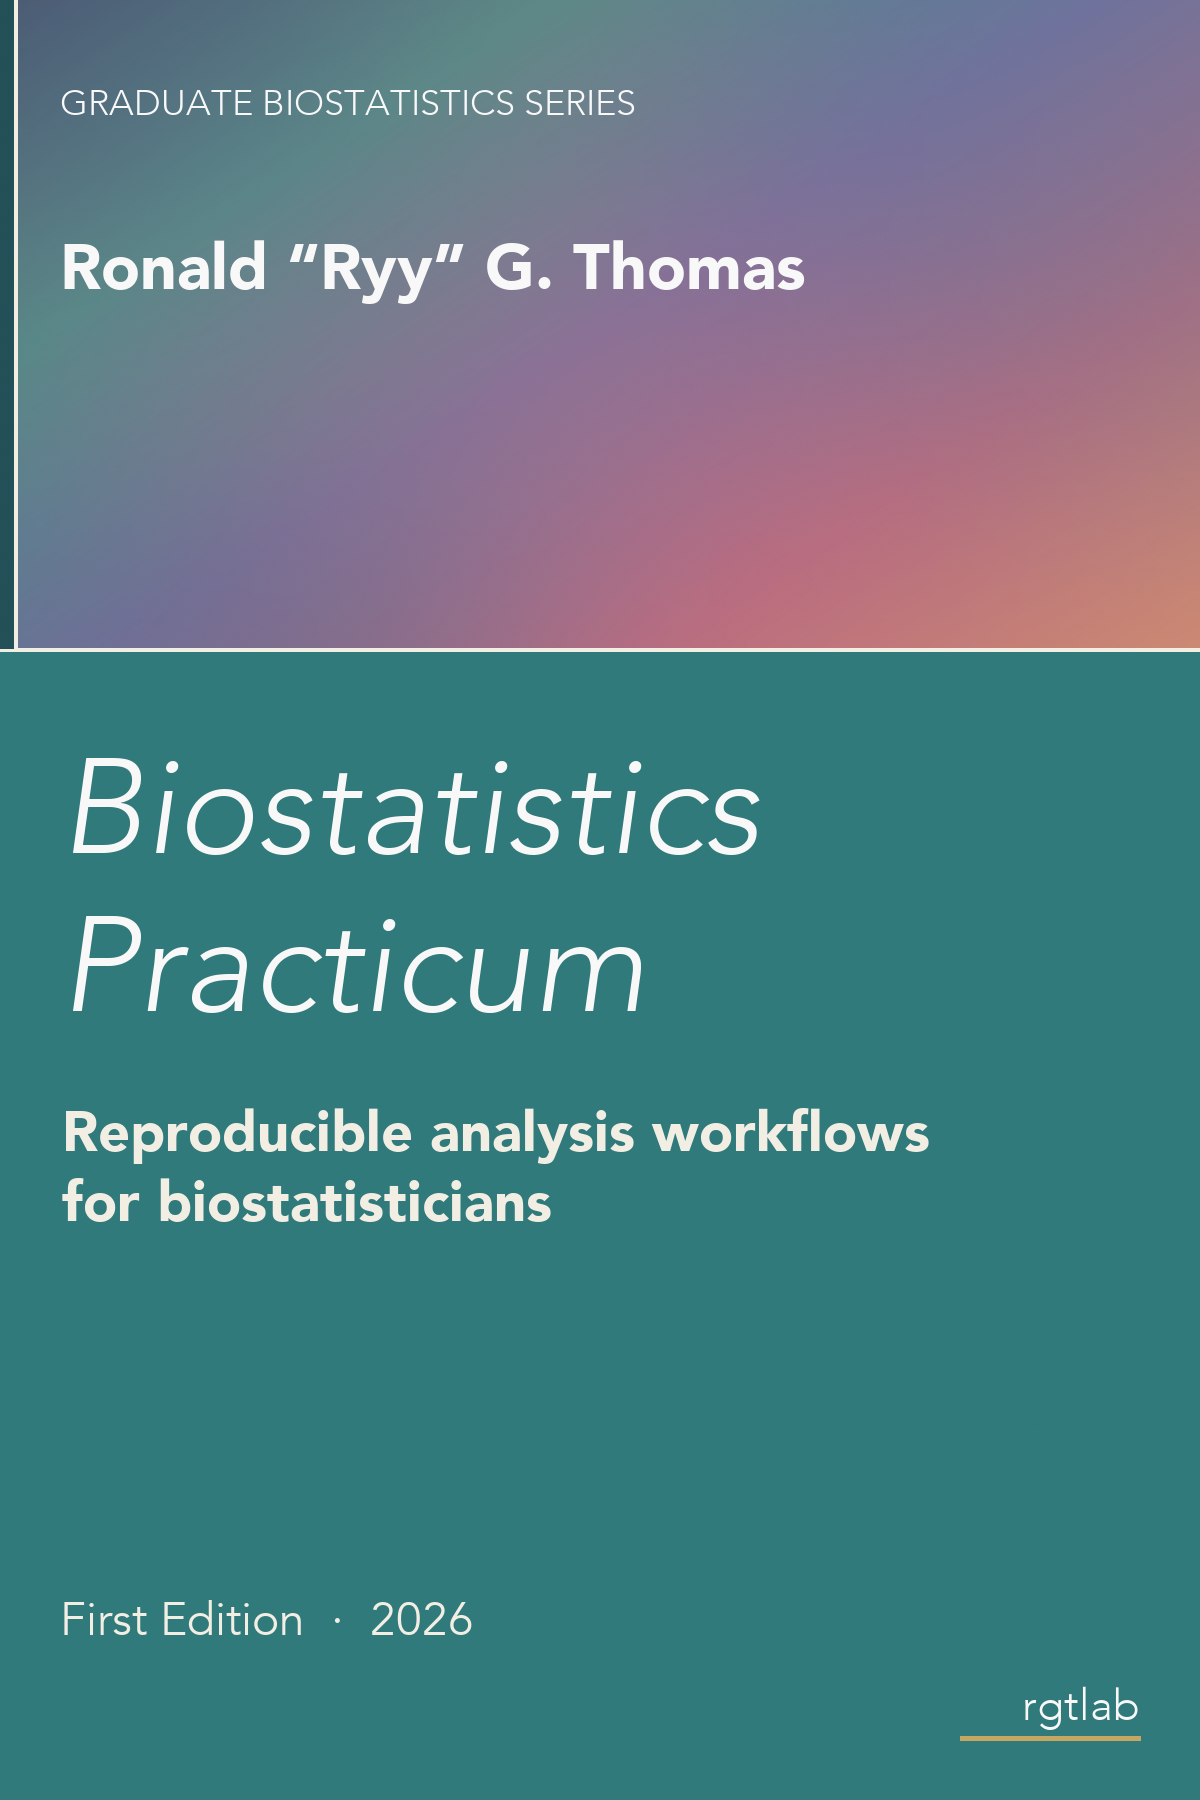
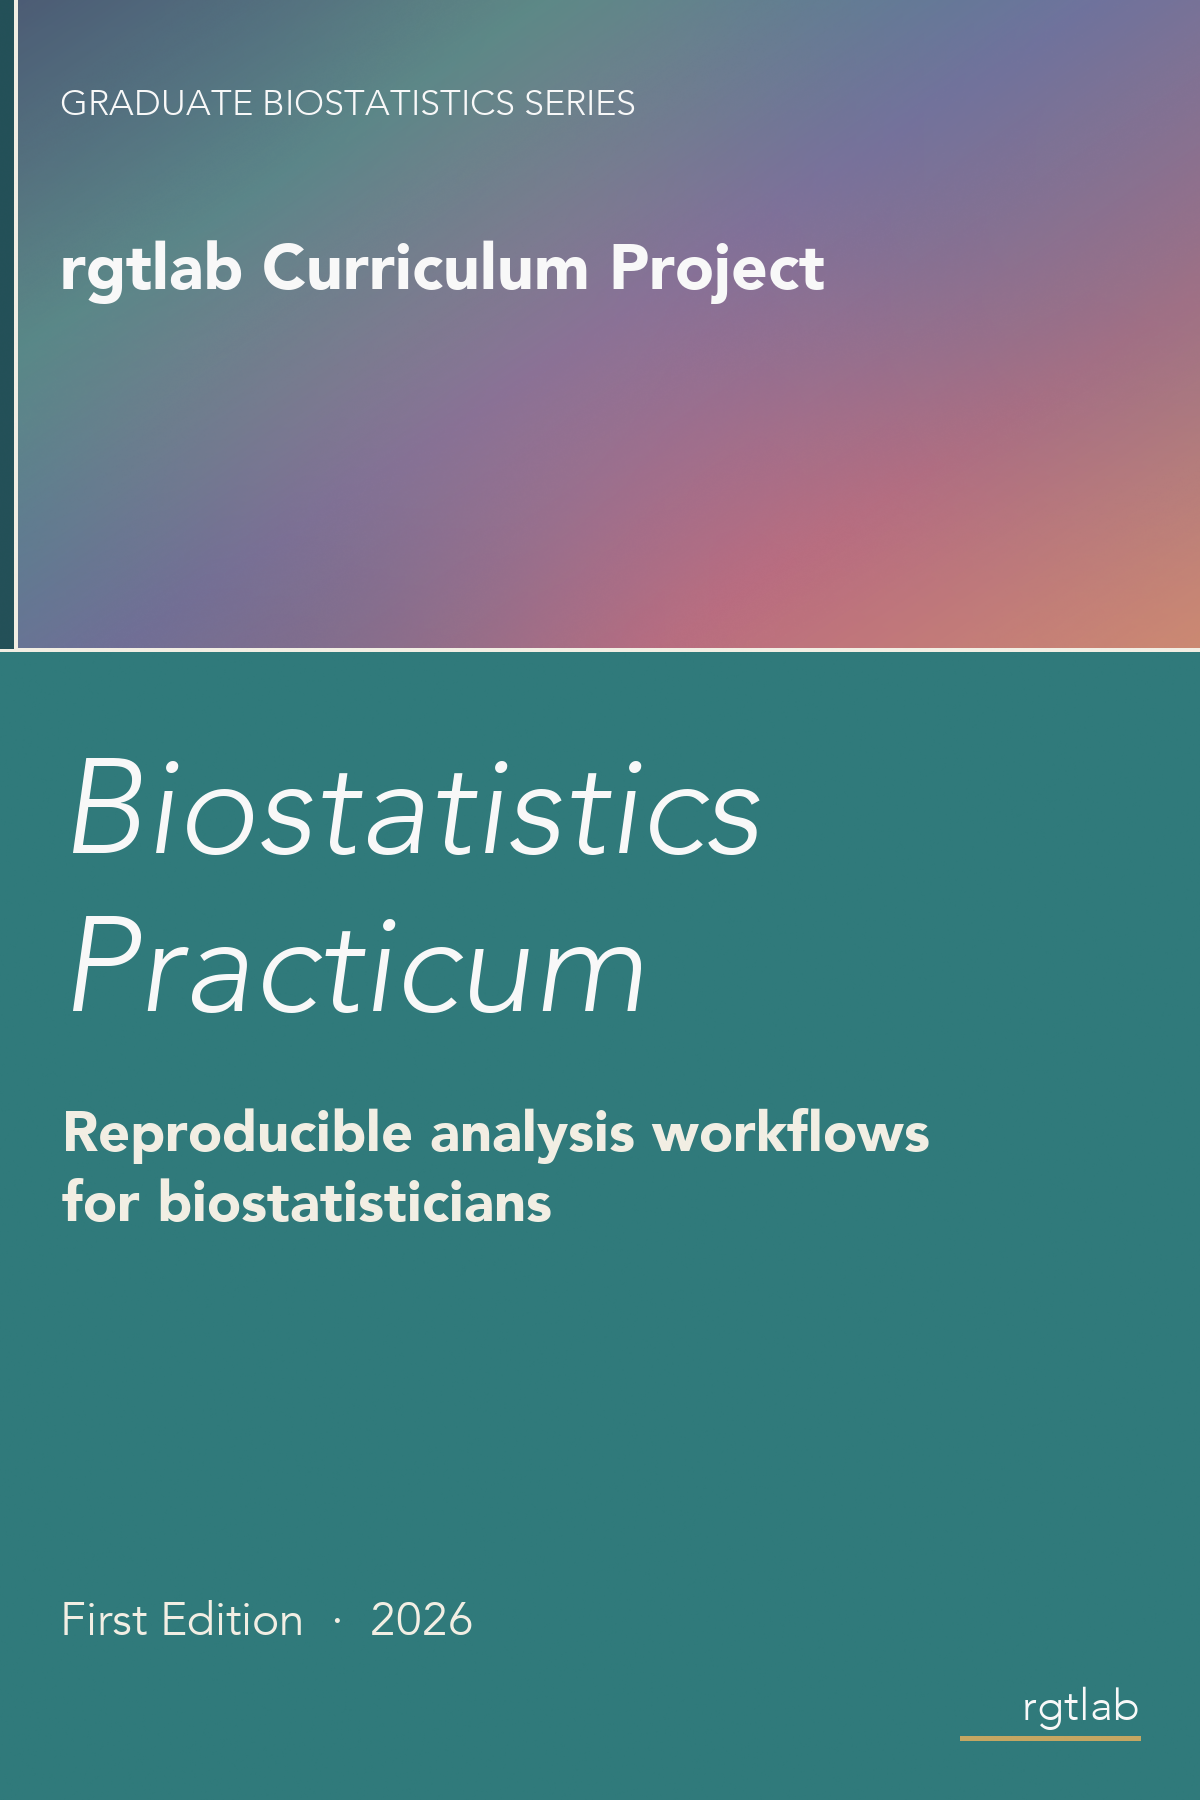
Auto-backup: 2026-04-29 13:42:10

Changed region(s): [[0.0617, 0.1244, 0.6783, 0.1867]]

diff --git a/images/build-cover.py b/images/build-cover.py
@@ -162,7 +162,7 @@ def build():
 
     # author names, stacked
     author_fnt = font('avenir-medium', 64)
-    authors = ['Ronald “Ryy” G. Thomas']
+    authors = ['rgtlab Curriculum Project']
     y = 240
     for line in authors:
         draw_text(draw, (60, y), line, author_fnt, WHITE, anchor='lt')
